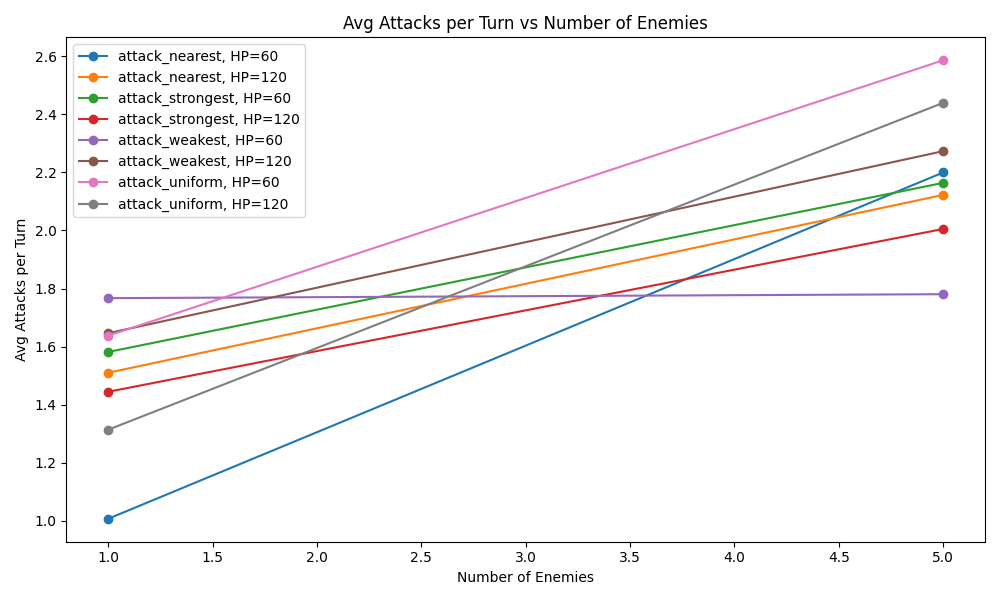
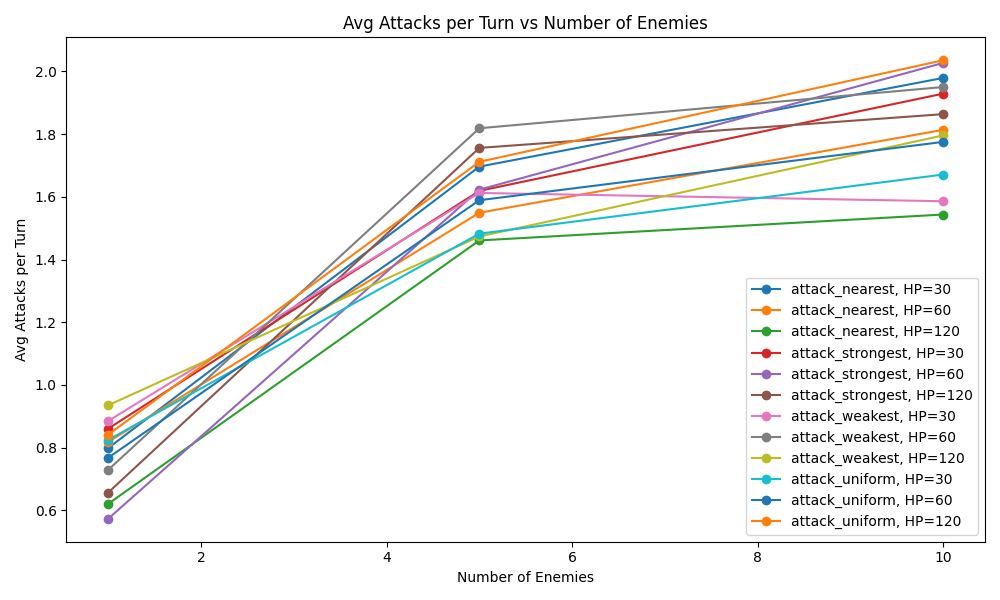
more analysis done

diff --git a/model.py b/model.py
@@ -7,8 +7,8 @@ from visualize import visualize_grid
 class Model(object):
     def __init__(self):
         # Grid dimensions
-        self.GRID_X = 20
-        self.GRID_Y = 20
+        self.GRID_X = 100
+        self.GRID_Y = 100
 
         # Number of players and enemies
         self.NUM_PLAYERS = 5
@@ -195,11 +195,11 @@ def batch_simulation(num_runs=10, num_players=5, num_enemies=10, enemy_strategy=
     return avg_metrics
 
 def experiment_varying_enemies_and_health(
-    num_runs=2, 
+    num_runs=5, 
     num_players=5, 
-    enemy_numbers=[1, 5], 
+    enemy_numbers=[1, 5, 10], 
     enemy_strategies=['attack_nearest', 'attack_strongest', 'attack_weakest', 'attack_uniform'], 
-    enemy_healths=[60, 120]
+    enemy_healths=[30, 60, 120]
 ):
     results = []
     for strategy in enemy_strategies:
